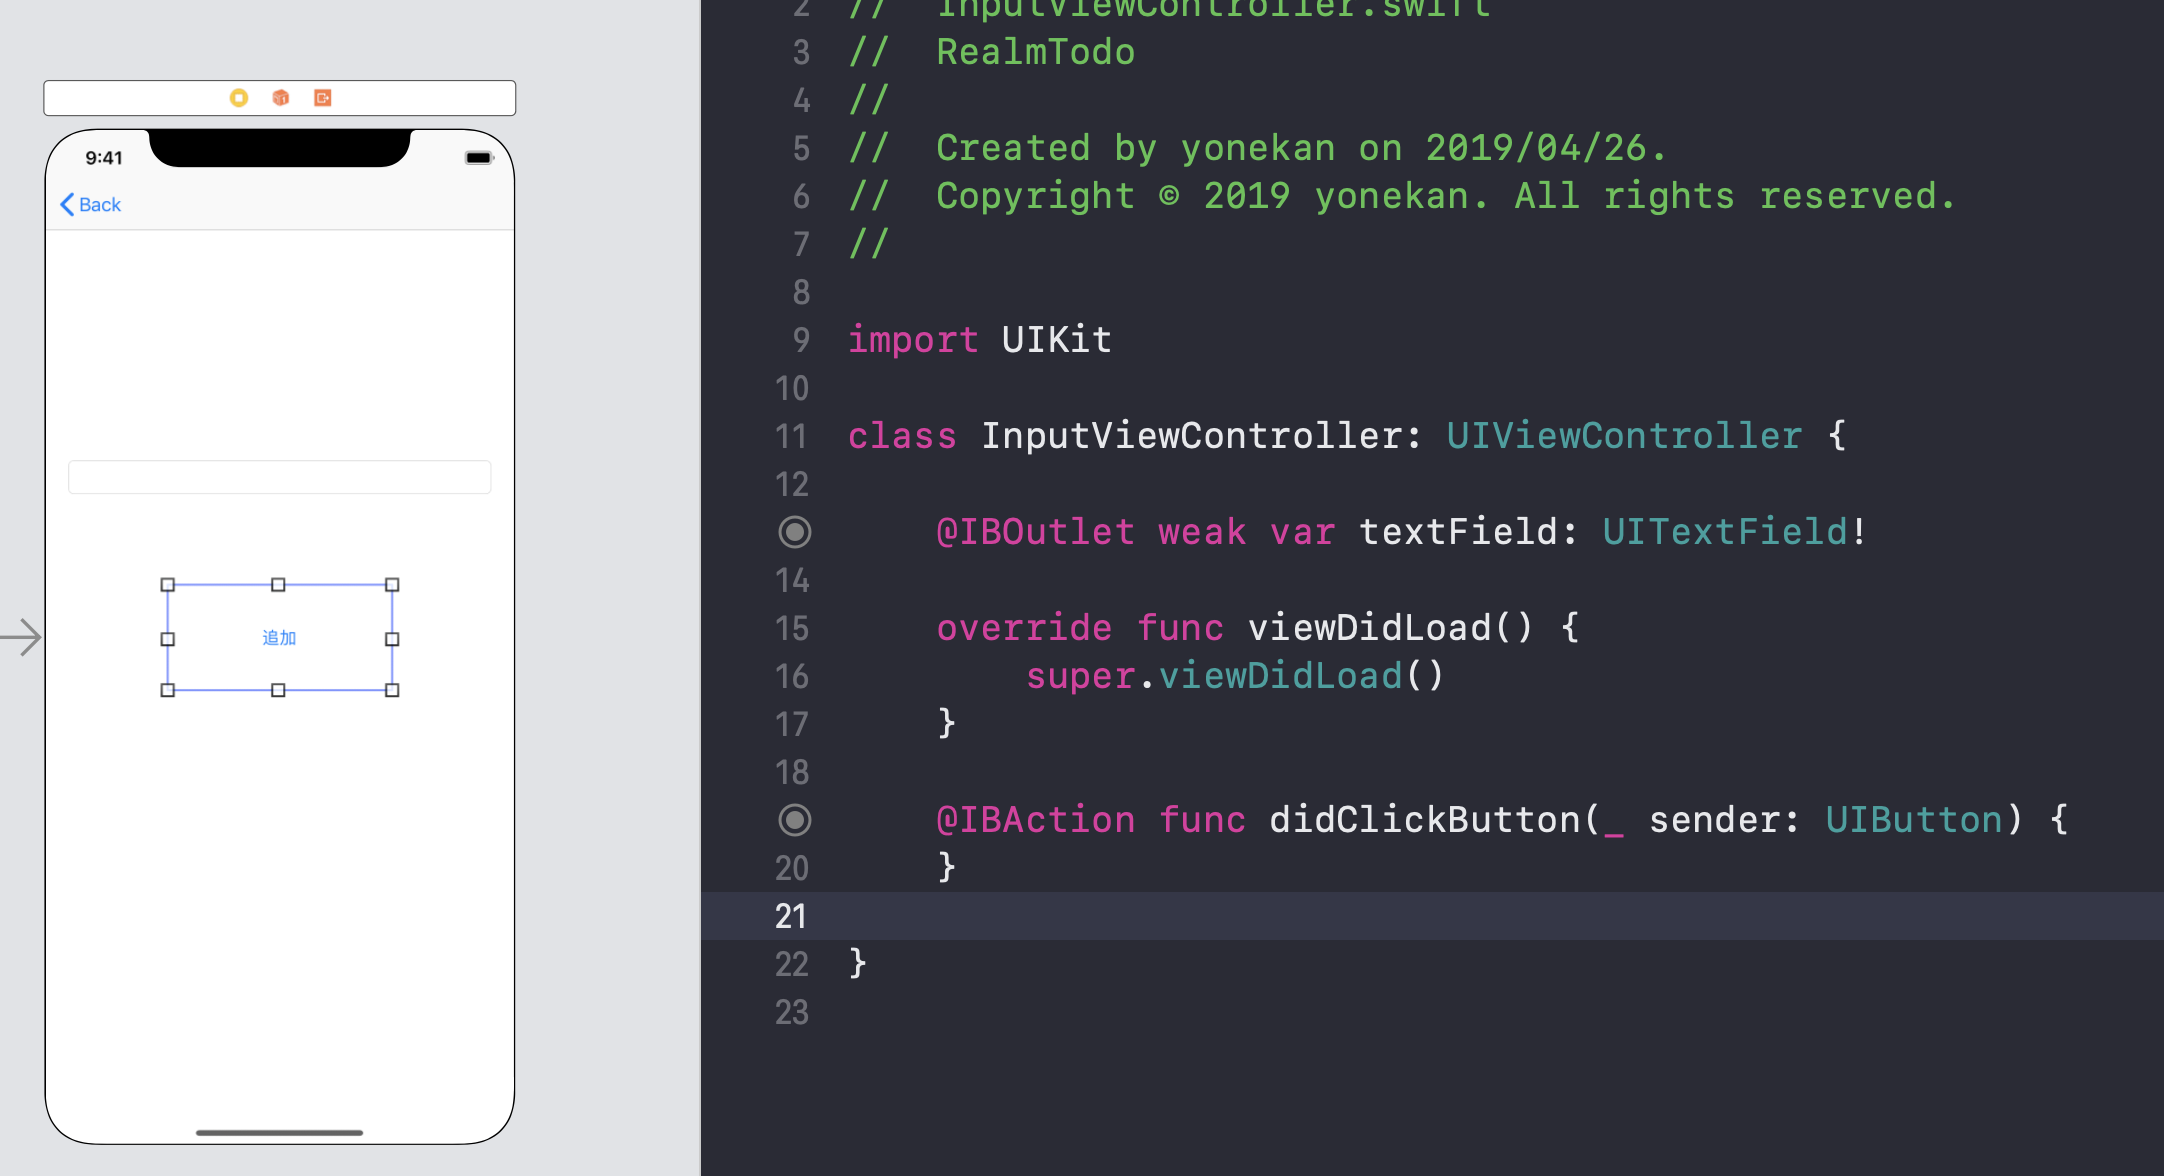
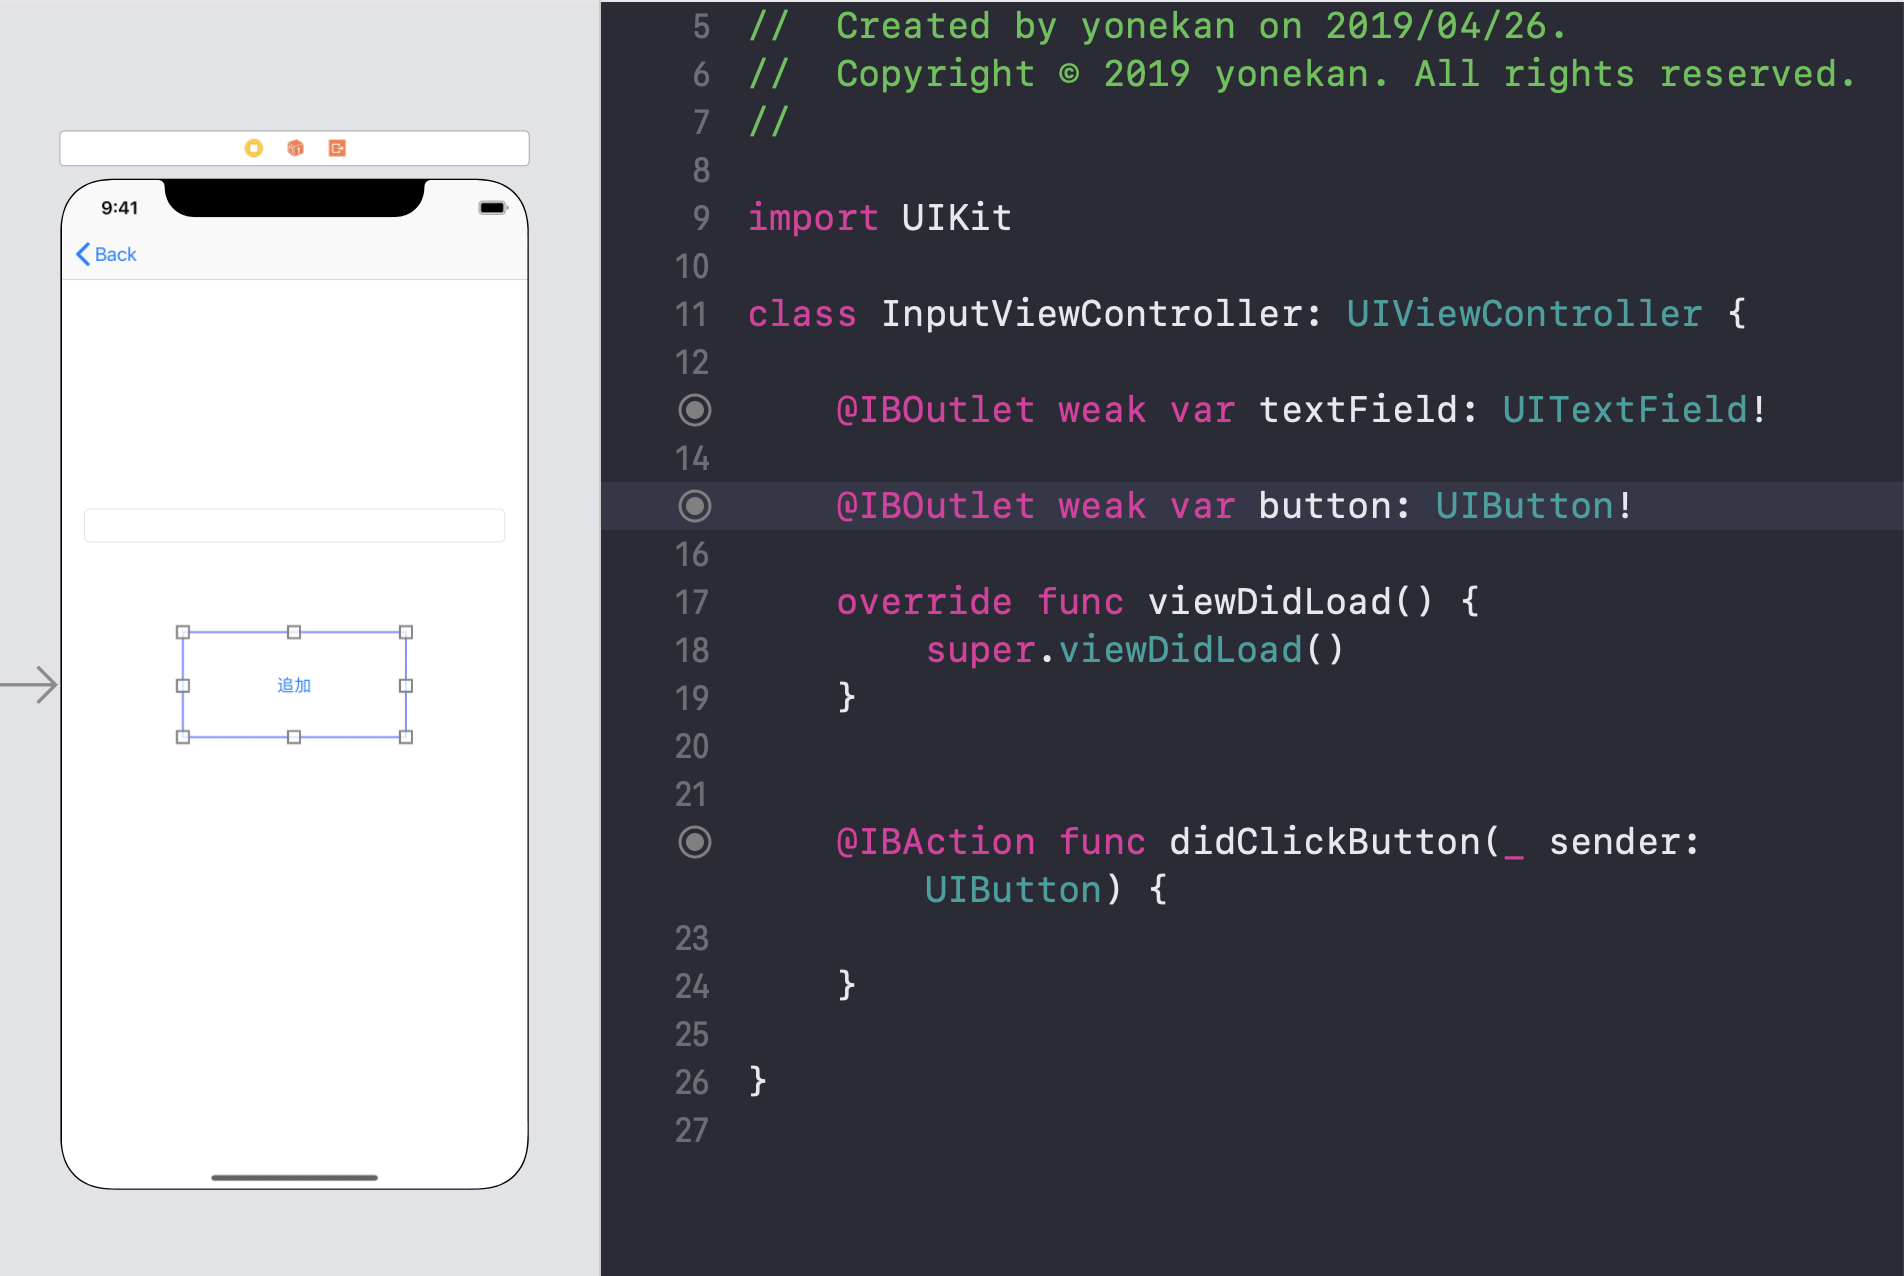
no message

diff --git a/swift/04_iPhoneAppCoordinatedDB/06_RealmTodo（編集）.md b/swift/04_iPhoneAppCoordinatedDB/06_RealmTodo（編集）.md
@@ -1,0 +1,206 @@
+# RealmTodo
+
+## 目標
+- Realmが使えるようになる
+- 役割や機能ごとにクラスを分けることができるようになる
+- MVCについて理解する
+
+## 作成するアプリ  
+|タスク一覧|タスク追加|タスク編集|タスク削除|
+|---|---|---|---|
+|<img src="./img/RealmTodoList.png" width="300px">|<img src="./img/RealmTodoAdd.gif" width="300px">|<img src="./img/RealmTodoEdit.gif" width="300px">|<img src="./img/RealmTodoDelete.gif" width="300px">|
+
+## 開発の流れ
+
+1. TableViewCellに右矢印を追加する
+2. InputViewController.swiftに編集対象のTodoを保持する変数を追記する
+3. ```ViewController.swift```セルクリック時の処理を追記する
+4. 入力画面表示時に、新規追加か編集か判断し、画面の表示方法を切り替える
+5. TodoRepository, TodoService,InputViewControllerにそれぞれ更新の処理を追記する。
+
+## 開発しよう
+
+1. TableViewCellに右矢印を追加する
+
+	1. ViewController.swiftの```cellForRowAt```メソッドに以下の処理を追記する
+		
+		```
+		cell.accessoryType = .disclosureIndicator
+		```
+
+		追記後の```cellForRowAt```メソッド
+
+		```
+		func tableView(_ tableView: UITableView, cellForRowAt indexPath: IndexPath) -> UITableViewCell {
+			let cell = tableView.dequeueReusableCell(withIdentifier: "cell", for: indexPath)
+
+			let todo = todos[indexPath.row]
+
+			// セルのタイトルにTodoのタイトルを設定
+			cell.textLabel?.text = todo.title
+
+			cell.accessoryType = .disclosureIndicator
+
+			return cell
+		}
+		```
+2. InputViewController.swiftに編集対象のTodoを保持する変数を追記する
+
+	1. 以下のコードを追記する
+
+		```
+		var todo: Todo? = nil
+		```
+
+		追記後の```InputViewController.swift```
+
+		```
+		class InputViewController: UIViewController {
+
+			@IBOutlet weak var textField: UITextField!
+
+			var todo: Todo? = nil
+		```
+
+3. ```ViewController.swift```セルクリック時の処理を追記する
+
+	1. 以下のメソッドを追記する
+
+		```
+		func tableView(_ tableView: UITableView, didSelectRowAt indexPath: IndexPath) {
+			<#code#>
+		}
+		```
+
+	2. 追加した```didSelectRowAt```メソッドに以下の処理を追記する
+
+		```
+		let todo = todos[indexPath.row]
+		performSegue(withIdentifier: "toInputVC", sender: todo)
+		```
+
+		追記後の```didSelectRowAt```メソッド
+
+		```
+		func tableView(_ tableView: UITableView, didSelectRowAt indexPath: IndexPath) {
+			let todo = todos[indexPath.row]
+			performSegue(withIdentifier: "toInputVC", sender: todo)
+		}
+		```
+
+	3. 以下のメソッドを追記する
+
+		```
+		override func prepare(for segue: UIStoryboardSegue, sender: Any?) {
+			<#code#>
+		}
+		```
+
+	4. 追加した```prepare```メソッドに以下の処理を追記する
+
+		```
+		if segue.identifier == "toInputVC" {
+			let inputVC = segue.destination as! InputViewController
+			inputVC.todo = sender as? Todo
+		}
+		```
+
+		追記後の```prepare```メソッド
+
+		```
+		override func prepare(for segue: UIStoryboardSegue, sender: Any?) {
+			if segue.identifier == "toInputVC" {
+				let inputVC = segue.destination as! InputViewController
+				inputVC.todo = sender as? Todo
+			}
+		}
+		```
+
+4. 入力画面表示時に、新規追加か編集か判断し、画面の表示方法を切り替える
+
+	1. InputViewController.swiftに以下のメソッドを追記する
+
+		```
+		override func viewWillAppear(_ animated: Bool) {
+			<#code#>
+		}
+		```
+
+	2. 追加した```viewWillAppear```メソッドに以下の処理を追記する
+
+		```
+		if todo != nil {
+			textField.text = todo?.title
+			button.setTitle("更新", for: .normal)
+		} else {
+			button.setTitle("追加", for: .normal)
+		}
+		```
+
+		追記後の```viewWillAppear```メソッド
+
+		```
+		override func viewWillAppear(_ animated: Bool) {
+			if todo != nil {
+				textField.text = todo?.title
+				button.setTitle("更新", for: .normal)
+			} else {
+				button.setTitle("追加", for: .normal)
+			}
+		}
+		```
+
+5. TodoRepository, TodoService,InputViewControllerにそれぞれ更新の処理を追記する。
+
+	1. TodoRepositoryに以下の2つメソッドを追記する。
+
+		```
+		func update(newTodo: Todo) {
+			let realm = try! Realm()
+			let todo = findById(id: newTodo.id)
+			try! realm.write {
+				todo?.title = newTodo.title
+				todo?.date = newTodo.date
+			}
+		}
+		```
+
+		```
+		func findById(id: Int) -> Todo! {
+			let realm = try! Realm()
+			let todo = realm.objects(Todo.self).filter("id = \(id)").first
+			return todo
+		}
+		```
+
+	2. TodoServiceに以下のメソッドを追記する。
+
+		```
+		func update(id: Int, newTitle: String) {
+			let todo = Todo()
+			todo.id = id
+			todo.title = newTitle
+
+			repository.update(newTodo: todo)
+		}
+		```
+
+	3. InputViewController.swiftの```didClickButton```メソッドを以下のように修正する。
+
+		```
+		@IBAction func didClickButton(_ sender: UIButton) {
+			let todoService = TodoService()
+
+			if let title = textField.text {
+				if todo == nil {
+					todoService.create(title: title)
+				} else {
+					todoService.update(id: todo!.id, newTitle: title)
+				}
+
+				navigationController?.popViewController(animated: true)
+			} else {
+				print("Todoが入力されていません")
+			}
+		}
+		```

diff --git a/swift/04_iPhoneAppCoordinatedDB/02_RealmTodo（準備）.md b/swift/04_iPhoneAppCoordinatedDB/02_RealmTodo（準備）.md
@@ -70,6 +70,7 @@
 		|部品|接続時のName|
 		|---|---|
 		|UITextField|textField|
+		|UIButton|button|
 		|UIButton|didClickButton|
 
 		![画像](./img/connect_second_vc.png)
